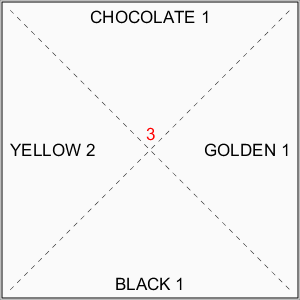
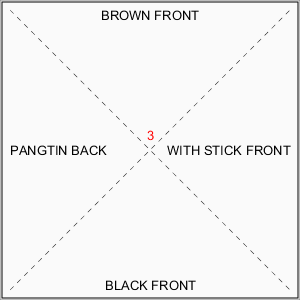
Improved Names

diff --git a/src/main/java/org/whatsoftwarecando/legespiel/configs/RetrieverScrambleSquaresConfig.java b/src/main/java/org/whatsoftwarecando/legespiel/configs/RetrieverScrambleSquaresConfig.java
@@ -11,7 +11,7 @@ public class RetrieverScrambleSquaresConfig extends GameConfig {
 
 	enum Picture implements IPicture {
 
-		GOLDEN_1(1), GOLDEN_2(1), BLACK_1(2), BLACK_2(2), YELLOW_1(3), YELLOW_2(3), CHOCOLATE_1(4), CHOCOLATE_2(4);
+		WITH_STICK_FRONT(1), WITH_STICK_BACK(1), BLACK_FRONT(2), BLACK_BACK(2), PANTING_FRONT(3), PANGTIN_BACK(3), BROWN_FRONT(4), BROWN_BACK(4);
 
 		private final int pairNumber;
 
@@ -32,15 +32,15 @@ public class RetrieverScrambleSquaresConfig extends GameConfig {
 
 	@Override
 	protected void createAvailableCards() {
-		addCard(Picture.YELLOW_1, Picture.BLACK_1, Picture.CHOCOLATE_2, Picture.GOLDEN_1);
-		addCard(Picture.GOLDEN_1, Picture.CHOCOLATE_1, Picture.YELLOW_1, Picture.BLACK_2);
-		addCard(Picture.CHOCOLATE_1, Picture.YELLOW_2, Picture.GOLDEN_1, Picture.BLACK_1);
-		addCard(Picture.GOLDEN_2, Picture.CHOCOLATE_1, Picture.YELLOW_1, Picture.BLACK_1);
-		addCard(Picture.BLACK_1, Picture.YELLOW_2, Picture.GOLDEN_1, Picture.CHOCOLATE_1);
-		addCard(Picture.BLACK_2, Picture.GOLDEN_2, Picture.YELLOW_2, Picture.CHOCOLATE_2);
-		addCard(Picture.BLACK_2, Picture.GOLDEN_1, Picture.YELLOW_2, Picture.CHOCOLATE_1);
-		addCard(Picture.CHOCOLATE_2, Picture.YELLOW_1, Picture.GOLDEN_2, Picture.BLACK_1);
-		addCard(Picture.CHOCOLATE_1, Picture.GOLDEN_1, Picture.BLACK_1, Picture.YELLOW_1);
+		addCard(Picture.PANTING_FRONT, Picture.BLACK_FRONT, Picture.BROWN_BACK, Picture.WITH_STICK_FRONT);
+		addCard(Picture.WITH_STICK_FRONT, Picture.BROWN_FRONT, Picture.PANTING_FRONT, Picture.BLACK_BACK);
+		addCard(Picture.BROWN_FRONT, Picture.PANGTIN_BACK, Picture.WITH_STICK_FRONT, Picture.BLACK_FRONT);
+		addCard(Picture.WITH_STICK_BACK, Picture.BROWN_FRONT, Picture.PANTING_FRONT, Picture.BLACK_FRONT);
+		addCard(Picture.BLACK_FRONT, Picture.PANGTIN_BACK, Picture.WITH_STICK_FRONT, Picture.BROWN_FRONT);
+		addCard(Picture.BLACK_BACK, Picture.WITH_STICK_BACK, Picture.PANGTIN_BACK, Picture.BROWN_BACK);
+		addCard(Picture.BLACK_BACK, Picture.WITH_STICK_FRONT, Picture.PANGTIN_BACK, Picture.BROWN_FRONT);
+		addCard(Picture.BROWN_BACK, Picture.PANTING_FRONT, Picture.WITH_STICK_BACK, Picture.BLACK_FRONT);
+		addCard(Picture.BROWN_FRONT, Picture.WITH_STICK_FRONT, Picture.BLACK_FRONT, Picture.PANTING_FRONT);
 	}
 
 	@Override
